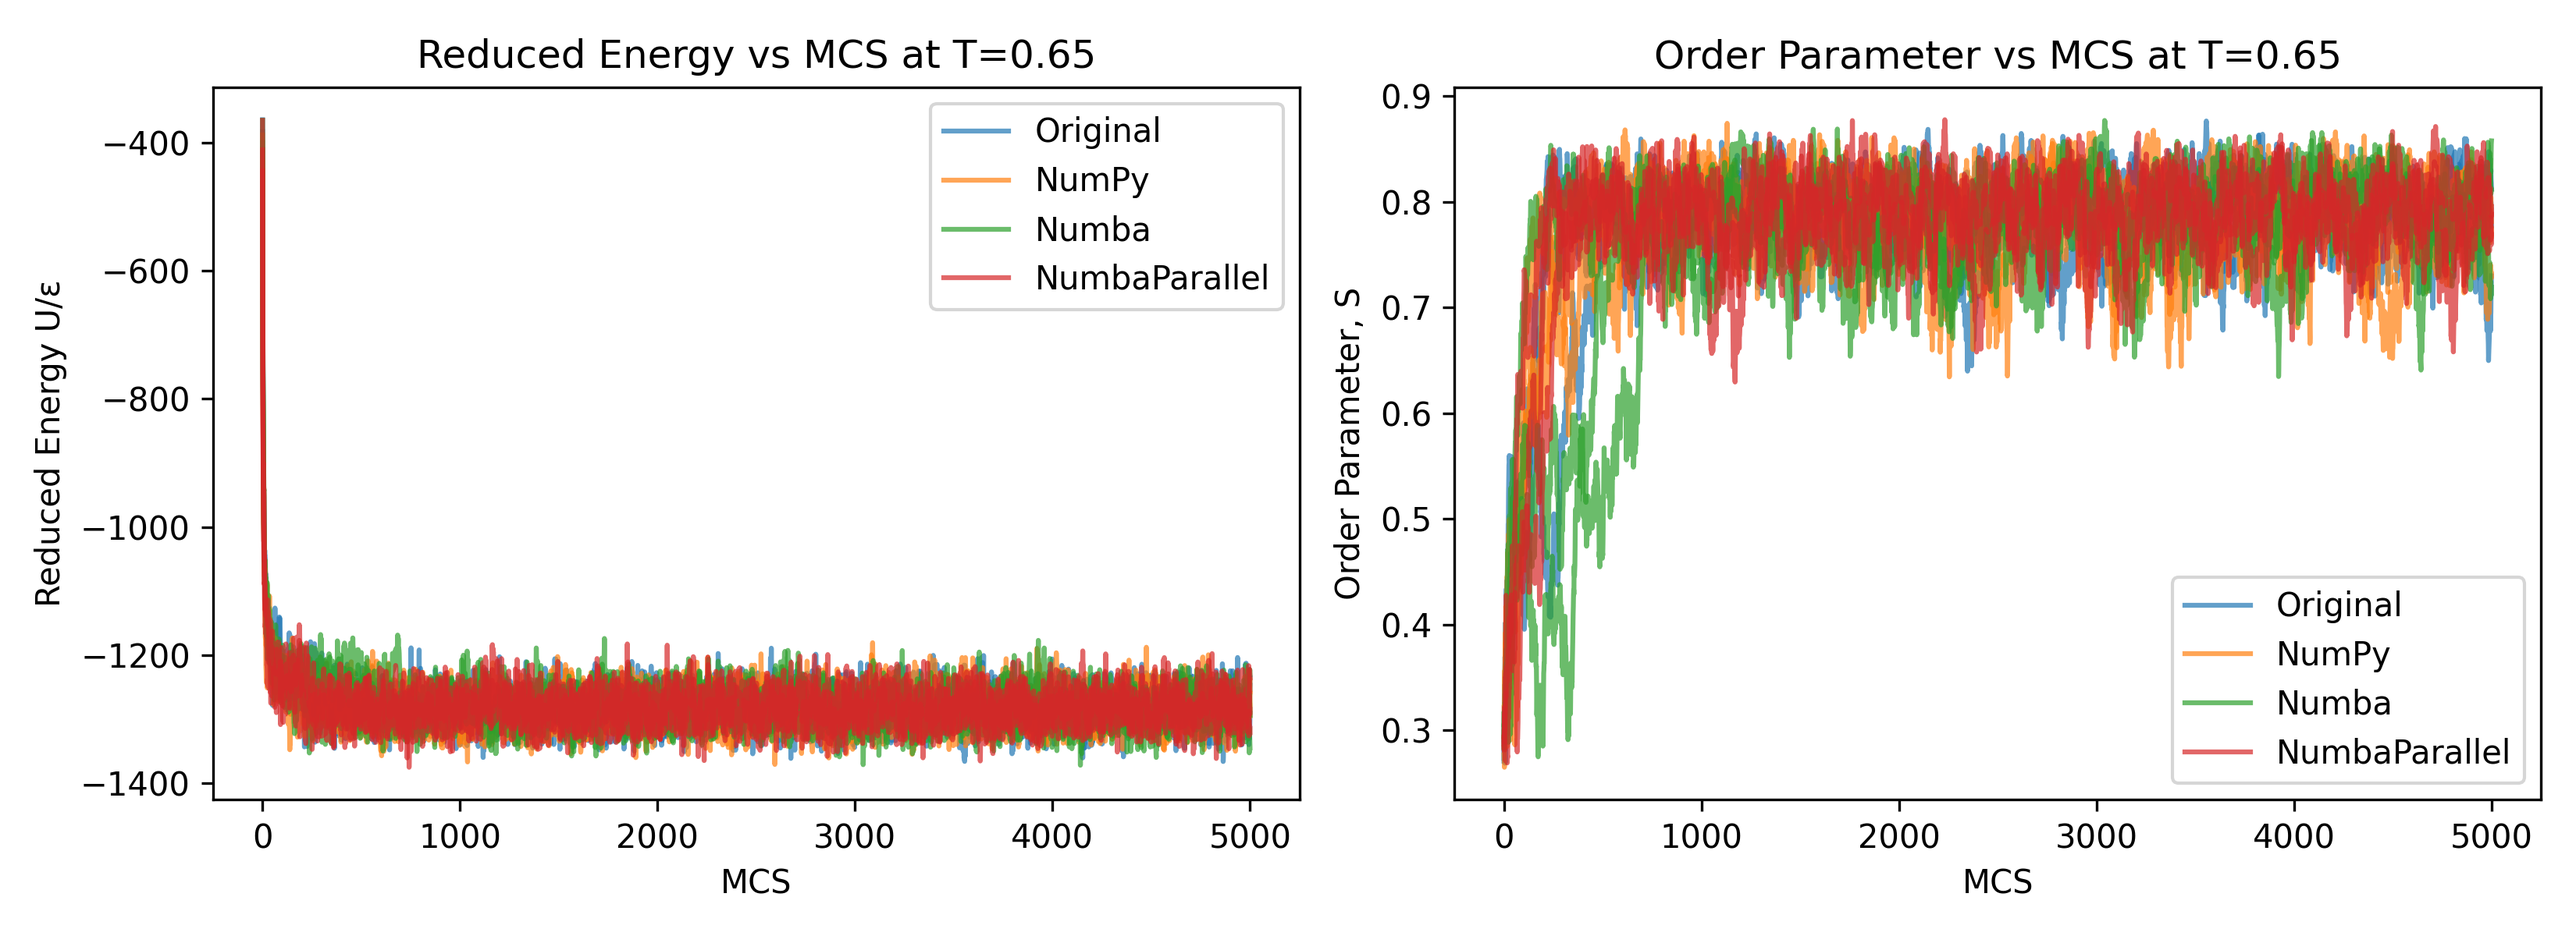
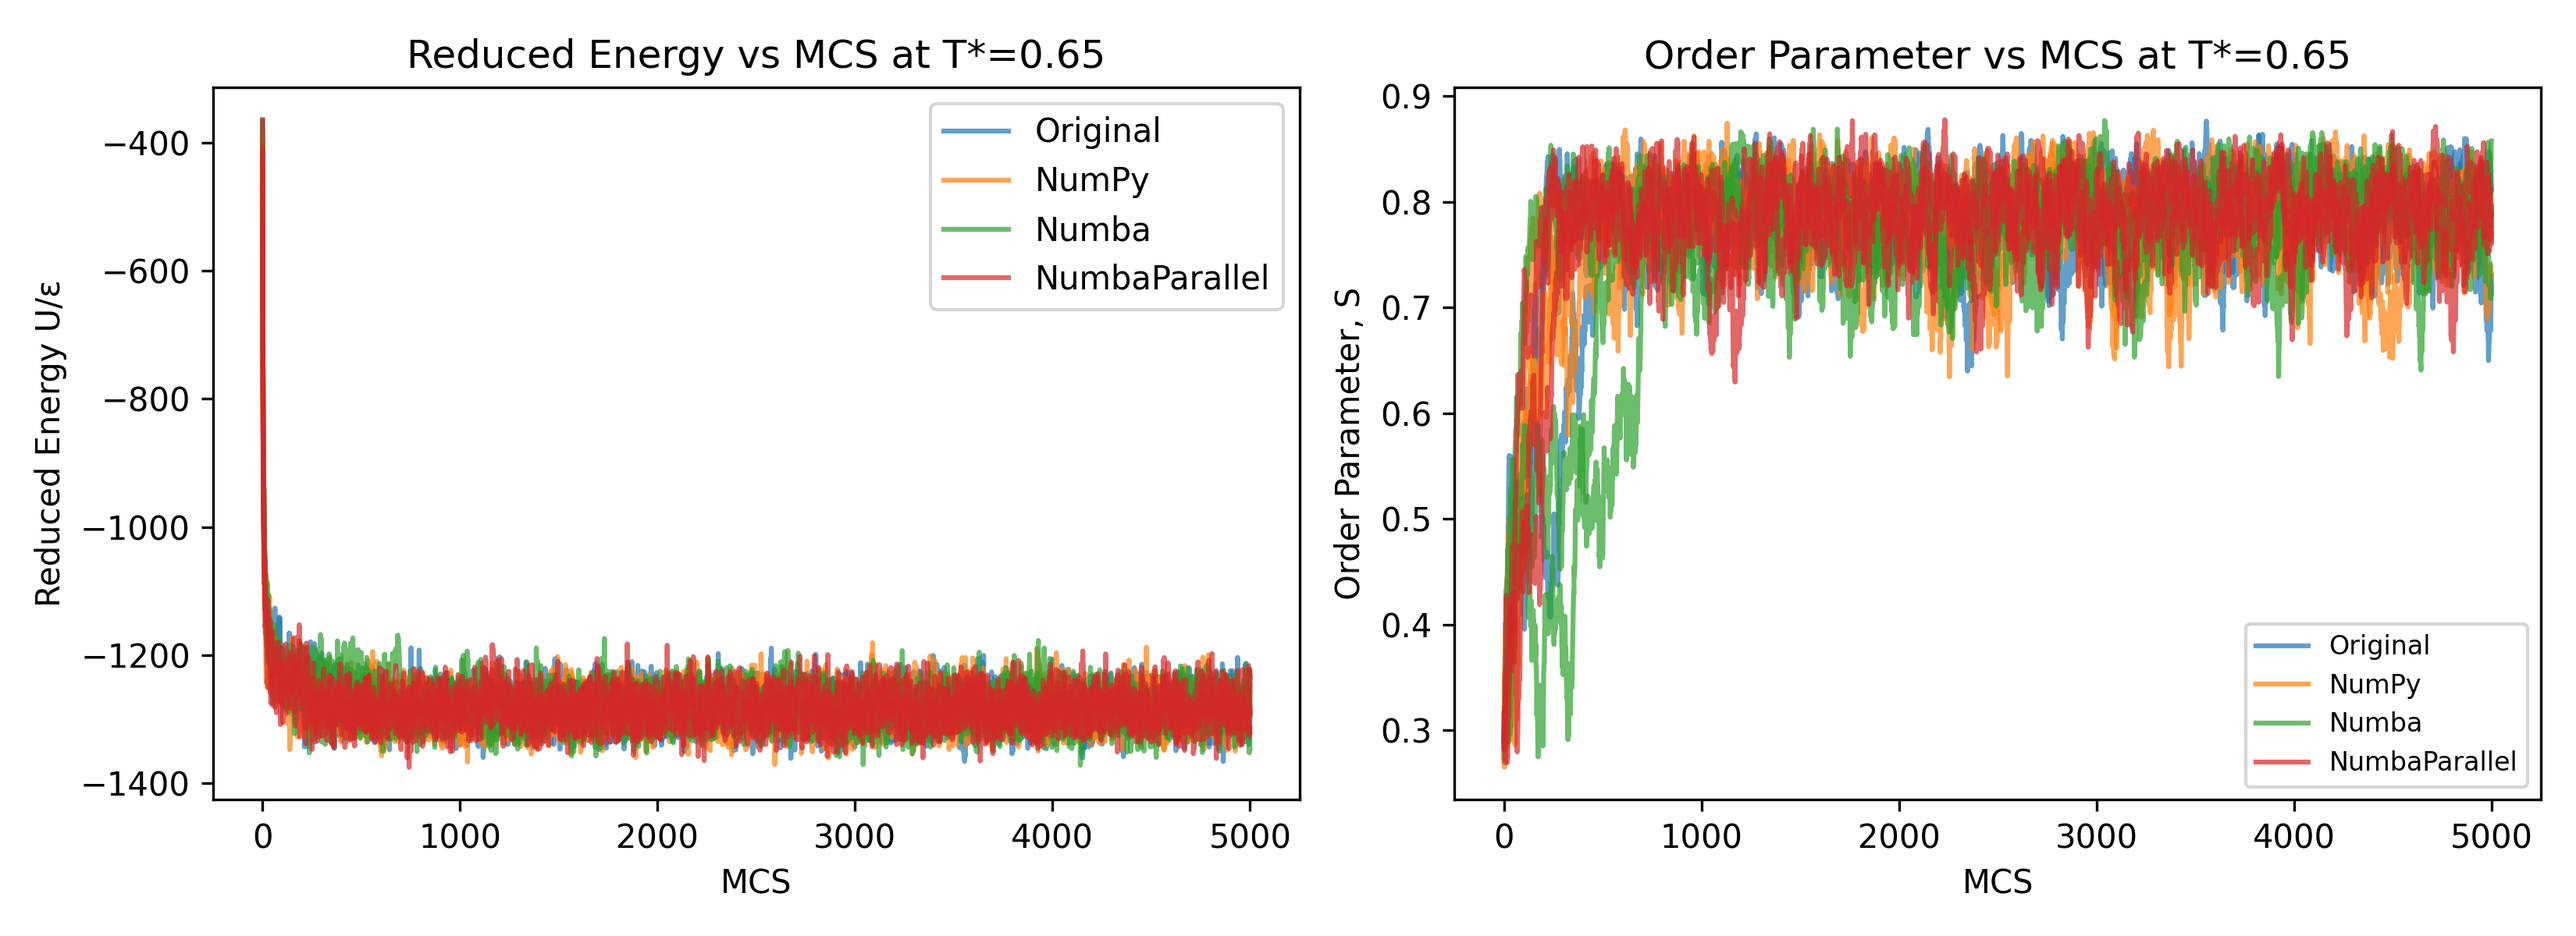
just moved legend

Changed region(s): [[0.8427, 0.6167, 0.9988, 0.8633], [0.1561, 0.0308, 0.437, 0.0925], [0.6242, 0.0308, 0.9052, 0.0925]]

diff --git a/EquilibriumPlot.py b/EquilibriumPlot.py
@@ -2,7 +2,7 @@ import matplotlib.pyplot as plt
 import numpy as np
 
 #path to the folder containing the data files
-folder = "Results/Physics_Check/MCS5000_T0.65_Size20/"
+folder = "Results/Physics_Check/MCS2000_T0.65_Size50/"
 versions = ["Original", "NumPy", "Numba", "NumbaParallel"]
 runs = [1,2,3]
 
@@ -13,7 +13,7 @@ fig, (ax1, ax2) = plt.subplots(1, 2, figsize=(11, 4))
 for c, version in enumerate(versions):
     colour = f"C{c}"
     for run in runs:
-        data = np.loadtxt(f"{folder}{version}/MCS5000_T0.65_Size20_V{run}.txt")
+        data = np.loadtxt(f"{folder}{version}/MCS2000_T0.65_Size50_V{run}.txt")
         label = version if run == 1 else None #one legend entry per version
         ax1.plot(data[:, 0], data[:, 2], color=colour, alpha=0.7, label=label)
         ax2.plot(data[:, 0], data[:,3], color=colour, alpha=0.7, label=label)
@@ -21,13 +21,13 @@ for c, version in enumerate(versions):
 
 ax1.set_xlabel("MCS")
 ax1.set_ylabel("Reduced Energy U/ε")
-ax1.set_title(f"Reduced Energy vs MCS at T={temp}")
+ax1.set_title(f"Reduced Energy vs MCS at T*={temp}")
 ax1.legend()
 
 ax2.set_xlabel("MCS")
 ax2.set_ylabel("Order Parameter, S")
-ax2.set_title(f"Order Parameter vs MCS at T={temp}")
-ax2.legend()
+ax2.set_title(f"Order Parameter vs MCS at T*={temp}")
+ax2.legend(loc="lower right", fontsize=8)
 
 plt.tight_layout()
 plt.savefig(folder + "EquilibriumPlot_all_versions_Size20_MCS5000.png", dpi=300)
